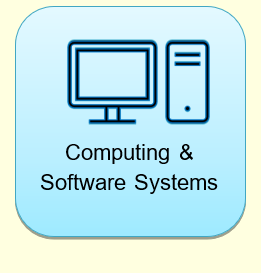
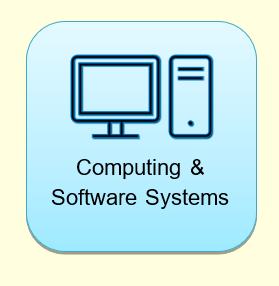
Add files via upload

Changed region(s): [[0.0307, 0.0, 0.9502, 0.9084], [0.2452, 0.1172, 0.8276, 0.4982], [0.1533, 0.5275, 0.8276, 0.7326]]

diff --git a/index.htm b/index.htm
@@ -25,15 +25,15 @@ w\:* {behavior:url(#default#VML);}
   <o:Template>Normal</o:Template>
   <o:LastAuthor>Isabelle Heier</o:LastAuthor>
   <o:Revision>2</o:Revision>
-  <o:TotalTime>604</o:TotalTime>
-  <o:Created>2020-08-15T16:38:00Z</o:Created>
-  <o:LastSaved>2020-08-15T16:38:00Z</o:LastSaved>
+  <o:TotalTime>612</o:TotalTime>
+  <o:Created>2020-08-15T17:00:00Z</o:Created>
+  <o:LastSaved>2020-08-15T17:00:00Z</o:LastSaved>
   <o:Pages>1</o:Pages>
-  <o:Words>165</o:Words>
-  <o:Characters>946</o:Characters>
-  <o:Lines>7</o:Lines>
-  <o:Paragraphs>2</o:Paragraphs>
-  <o:CharactersWithSpaces>1109</o:CharactersWithSpaces>
+  <o:Words>100</o:Words>
+  <o:Characters>570</o:Characters>
+  <o:Lines>4</o:Lines>
+  <o:Paragraphs>1</o:Paragraphs>
+  <o:CharactersWithSpaces>669</o:CharactersWithSpaces>
   <o:Version>16.00</o:Version>
  </o:DocumentProperties>
  <o:CustomDocumentProperties>
@@ -1012,29 +1012,9 @@ lang=EN style='font-size:14.0pt;font-family:"Times New Roman",serif;mso-fareast-
 <p class=MsoNormal align=center style='margin-left:13.5pt;text-align:center;
 line-height:normal'><span lang=EN style='font-size:14.0pt;font-family:"Helvetica Neue Light";
 mso-fareast-font-family:"Helvetica Neue Light";mso-bidi-font-family:"Helvetica Neue Light"'>Here
-are agendas for each <span style='color:red'>STEM </span>Program:</span><span
+are agendas for each STEM<span style='color:red'> </span>Program:</span><span
 lang=EN style='font-size:13.0pt;font-family:"Helvetica Neue";mso-fareast-font-family:
 "Helvetica Neue";mso-bidi-font-family:"Helvetica Neue";mso-no-proof:yes'> <o:p></o:p></span></p>
-
-<p class=MsoNormal align=center style='margin-left:13.5pt;text-align:center;
-line-height:normal'><span lang=EN style='font-size:14.0pt;font-family:"Helvetica Neue Light";
-mso-fareast-font-family:"Helvetica Neue Light";mso-bidi-font-family:"Helvetica Neue Light"'>Biological
-Sciences<o:p></o:p></span></p>
-
-<p class=MsoNormal align=center style='margin-left:13.5pt;text-align:center;
-line-height:normal'><span lang=EN style='font-size:14.0pt;font-family:"Helvetica Neue Light";
-mso-fareast-font-family:"Helvetica Neue Light";mso-bidi-font-family:"Helvetica Neue Light"'>Computing
-&amp; Software Systems<o:p></o:p></span></p>
-
-<p class=MsoNormal align=center style='margin-left:13.5pt;text-align:center;
-line-height:normal'><span lang=EN style='font-size:14.0pt;font-family:"Helvetica Neue Light";
-mso-fareast-font-family:"Helvetica Neue Light";mso-bidi-font-family:"Helvetica Neue Light"'>Electrical
-Engineering<o:p></o:p></span></p>
-
-<p class=MsoNormal align=center style='margin-left:13.5pt;text-align:center;
-line-height:normal'><span lang=EN style='font-size:14.0pt;font-family:"Helvetica Neue Light";
-mso-fareast-font-family:"Helvetica Neue Light";mso-bidi-font-family:"Helvetica Neue Light"'>Physical
-Sciences &amp; REU<o:p></o:p></span></p>
 
 <p class=MsoNormal align=center style='text-align:center'><span lang=EN
 style='font-size:14.0pt;line-height:115%;font-family:"Helvetica Neue";
@@ -1048,86 +1028,60 @@ mso-fareast-font-family:"Helvetica Neue";mso-bidi-font-family:"Helvetica Neue"'>
  <tr style='mso-yfti-irow:0;mso-yfti-firstrow:yes;mso-yfti-lastrow:yes'>
   <td width=232 style='width:174.3pt;padding:0in 5.4pt 0in 5.4pt'>
   <p class=MsoNormal align=center style='text-align:center;line-height:normal'><span
-  lang=EN><a
-  href="https://uwb-stem.github.io/capstone-colloquium-su20/Biological-Sciences/"><span
-  style='font-size:13.0pt;font-family:"Helvetica Neue";mso-fareast-font-family:
-  "Helvetica Neue";mso-bidi-font-family:"Helvetica Neue";color:windowtext;
-  mso-no-proof:yes;text-decoration:none;text-underline:none'><!--[if gte vml 1]><v:shape
-   id="Picture_x0020_25" o:spid="_x0000_i1028" type="#_x0000_t75" alt="A close up of a logo&#10;&#10;Description automatically generated"
-   href="https://uwb-stem.github.io/capstone-colloquium-su20/Biological-Sciences/"
-   style='width:180pt;height:181.5pt;visibility:visible;mso-wrap-style:square'
-   o:button="t">
-   <v:fill o:detectmouseclick="t"/>
-   <v:imagedata src="index_files/image005.png" o:title="A close up of a logo&#10;&#10;Description automatically generated"
-    croptop="2888f" cropbottom="8886f" cropleft="13957f" cropright="3034f"/>
-  </v:shape><![endif]--><![if !vml]><span style='mso-ignore:vglayout'><img
-  border=0 width=240 height=242 src="index_files/image006.gif"
-  alt="A close up of a logo&#10;&#10;Description automatically generated"
-  v:shapes="Picture_x0020_25"></span><![endif]></span></a></span><span lang=EN
-  style='font-size:13.0pt;font-family:"Helvetica Neue";mso-fareast-font-family:
+  lang=EN style='font-size:13.0pt;font-family:"Helvetica Neue";mso-fareast-font-family:
+  "Helvetica Neue";mso-bidi-font-family:"Helvetica Neue";mso-no-proof:yes'><!--[if gte vml 1]><v:shape
+   id="Picture_x0020_5" o:spid="_x0000_i1028" type="#_x0000_t75" style='width:181.5pt;
+   height:180pt;visibility:visible;mso-wrap-style:square'>
+   <v:imagedata src="index_files/image005.png" o:title=""/>
+  </v:shape><![endif]--><![if !vml]><img width=242 height=240
+  src="index_files/image006.gif" v:shapes="Picture_x0020_5"><![endif]></span><span
+  lang=EN style='font-size:13.0pt;font-family:"Helvetica Neue";mso-fareast-font-family:
   "Helvetica Neue";mso-bidi-font-family:"Helvetica Neue"'><o:p></o:p></span></p>
   </td>
   <td width=232 style='width:174.3pt;padding:0in 5.4pt 0in 5.4pt'>
   <p class=MsoNormal align=center style='text-align:center;line-height:normal'><span
-  lang=EN><a href="https://uwb-stem.github.io/capstone-colloquium-su20/csse/"><span
-  style='font-size:13.0pt;font-family:"Helvetica Neue";mso-fareast-font-family:
-  "Helvetica Neue";mso-bidi-font-family:"Helvetica Neue";color:windowtext;
-  mso-no-proof:yes;text-decoration:none;text-underline:none'><!--[if gte vml 1]><v:shape
-   id="Picture_x0020_26" o:spid="_x0000_i1027" type="#_x0000_t75" alt="A close up of a sign&#10;&#10;Description automatically generated"
-   href="https://uwb-stem.github.io/capstone-colloquium-su20/csse/" style='width:180pt;
-   height:181.5pt;visibility:visible;mso-wrap-style:square' o:button="t">
-   <v:fill o:detectmouseclick="t"/>
+  lang=EN style='font-size:13.0pt;font-family:"Helvetica Neue";mso-fareast-font-family:
+  "Helvetica Neue";mso-bidi-font-family:"Helvetica Neue";mso-no-proof:yes'><!--[if gte vml 1]><v:shape
+   id="Picture_x0020_6" o:spid="_x0000_i1027" type="#_x0000_t75" alt="A close up of a sign&#10;&#10;Description automatically generated"
+   style='width:181.5pt;height:180pt;visibility:visible;mso-wrap-style:square'>
    <v:imagedata src="index_files/image007.png" o:title="A close up of a sign&#10;&#10;Description automatically generated"
-    croptop="241f" cropbottom="7113f" cropleft="2511f" cropright="2778f"/>
-   <o:lock v:ext="edit" aspectratio="f"/>
-  </v:shape><![endif]--><![if !vml]><span style='mso-ignore:vglayout'><img
-  border=0 width=240 height=242 src="index_files/image008.gif"
+    croptop="3895f" cropbottom="6645f" cropleft="4932f" cropright="3758f"/>
+  </v:shape><![endif]--><![if !vml]><img width=242 height=240
+  src="index_files/image008.gif"
   alt="A close up of a sign&#10;&#10;Description automatically generated"
-  v:shapes="Picture_x0020_26"></span><![endif]></span></a></span><span lang=EN
-  style='font-size:13.0pt;font-family:"Helvetica Neue";mso-fareast-font-family:
-  "Helvetica Neue";mso-bidi-font-family:"Helvetica Neue"'><o:p></o:p></span></p>
+  v:shapes="Picture_x0020_6"><![endif]></span><span lang=EN style='font-size:
+  13.0pt;font-family:"Helvetica Neue";mso-fareast-font-family:"Helvetica Neue";
+  mso-bidi-font-family:"Helvetica Neue"'><o:p></o:p></span></p>
   </td>
   <td width=230 style='width:2.4in;padding:0in 5.4pt 0in 5.4pt'>
   <p class=MsoNormal align=center style='text-align:center;line-height:normal'><span
-  lang=EN><a
-  href="https://uwb-stem.github.io/capstone-colloquium-su20/electrical-engineering/"><span
-  style='font-size:13.0pt;font-family:"Helvetica Neue";mso-fareast-font-family:
-  "Helvetica Neue";mso-bidi-font-family:"Helvetica Neue";color:windowtext;
-  mso-no-proof:yes;text-decoration:none;text-underline:none'><!--[if gte vml 1]><v:shape
-   id="Picture_x0020_27" o:spid="_x0000_i1026" type="#_x0000_t75" alt="A picture containing clock&#10;&#10;Description automatically generated"
-   href="https://uwb-stem.github.io/capstone-colloquium-su20/electrical-engineering/"
-   style='width:180pt;height:181.5pt;visibility:visible;mso-wrap-style:square'
-   o:button="t">
-   <v:fill o:detectmouseclick="t"/>
-   <v:imagedata src="index_files/image009.png" o:title="A picture containing clock&#10;&#10;Description automatically generated"
-    croptop="933f" cropbottom="8147f" cropleft="1251f" cropright="4237f"/>
-  </v:shape><![endif]--><![if !vml]><span style='mso-ignore:vglayout'><img
-  border=0 width=240 height=242 src="index_files/image010.gif"
-  alt="A picture containing clock&#10;&#10;Description automatically generated"
-  v:shapes="Picture_x0020_27"></span><![endif]></span></a></span><span lang=EN
-  style='font-size:13.0pt;font-family:"Helvetica Neue";mso-fareast-font-family:
-  "Helvetica Neue";mso-bidi-font-family:"Helvetica Neue"'><o:p></o:p></span></p>
+  lang=EN style='font-size:13.0pt;font-family:"Helvetica Neue";mso-fareast-font-family:
+  "Helvetica Neue";mso-bidi-font-family:"Helvetica Neue";mso-no-proof:yes'><!--[if gte vml 1]><v:shape
+   id="Picture_x0020_7" o:spid="_x0000_i1026" type="#_x0000_t75" alt="A close up of a device&#10;&#10;Description automatically generated"
+   style='width:181.5pt;height:180pt;visibility:visible;mso-wrap-style:square'>
+   <v:imagedata src="index_files/image009.png" o:title="A close up of a device&#10;&#10;Description automatically generated"
+    croptop="266f" cropbottom="1331f" cropleft="2752f" cropright="2252f"/>
+  </v:shape><![endif]--><![if !vml]><img width=242 height=240
+  src="index_files/image010.gif"
+  alt="A close up of a device&#10;&#10;Description automatically generated"
+  v:shapes="Picture_x0020_7"><![endif]></span><span lang=EN style='font-size:
+  13.0pt;font-family:"Helvetica Neue";mso-fareast-font-family:"Helvetica Neue";
+  mso-bidi-font-family:"Helvetica Neue"'><o:p></o:p></span></p>
   </td>
   <td width=232 style='width:174.3pt;padding:0in 5.4pt 0in 5.4pt'>
   <p class=MsoNormal align=center style='text-align:center;line-height:normal'><span
-  lang=EN><a
-  href="https://uwb-stem.github.io/capstone-colloquium-su20/Physical-Sciences_REU"><span
-  style='font-size:13.0pt;font-family:"Helvetica Neue";mso-fareast-font-family:
-  "Helvetica Neue";mso-bidi-font-family:"Helvetica Neue";color:windowtext;
-  mso-no-proof:yes;text-decoration:none;text-underline:none'><!--[if gte vml 1]><v:shape
-   id="Picture_x0020_28" o:spid="_x0000_i1025" type="#_x0000_t75" alt="A close up of a logo&#10;&#10;Description automatically generated"
-   href="https://uwb-stem.github.io/capstone-colloquium-su20/Physical-Sciences_REU"
-   style='width:180pt;height:181.5pt;visibility:visible;mso-wrap-style:square'
-   o:button="t">
-   <v:fill o:detectmouseclick="t"/>
-   <v:imagedata src="index_files/image011.png" o:title="A close up of a logo&#10;&#10;Description automatically generated"
-    croptop="3542f" cropbottom="743f" cropright="1581f"/>
-  </v:shape><![endif]--><![if !vml]><span style='mso-ignore:vglayout'><img
-  border=0 width=240 height=242 src="index_files/image012.gif"
-  alt="A close up of a logo&#10;&#10;Description automatically generated"
-  v:shapes="Picture_x0020_28"></span><![endif]></span></a></span><span lang=EN
-  style='font-size:13.0pt;font-family:"Helvetica Neue";mso-fareast-font-family:
-  "Helvetica Neue";mso-bidi-font-family:"Helvetica Neue"'><o:p></o:p></span></p>
+  lang=EN style='font-size:13.0pt;font-family:"Helvetica Neue";mso-fareast-font-family:
+  "Helvetica Neue";mso-bidi-font-family:"Helvetica Neue";mso-no-proof:yes'><!--[if gte vml 1]><v:shape
+   id="Picture_x0020_8" o:spid="_x0000_i1025" type="#_x0000_t75" alt="A picture containing food&#10;&#10;Description automatically generated"
+   style='width:181.5pt;height:180pt;visibility:visible;mso-wrap-style:square'>
+   <v:imagedata src="index_files/image011.png" o:title="A picture containing food&#10;&#10;Description automatically generated"
+    croptop="7236f" cropbottom="2265f" cropleft="7938f" cropright="2707f"/>
+  </v:shape><![endif]--><![if !vml]><img width=242 height=240
+  src="index_files/image012.gif"
+  alt="A picture containing food&#10;&#10;Description automatically generated"
+  v:shapes="Picture_x0020_8"><![endif]></span><span lang=EN style='font-size:
+  13.0pt;font-family:"Helvetica Neue";mso-fareast-font-family:"Helvetica Neue";
+  mso-bidi-font-family:"Helvetica Neue"'><o:p></o:p></span></p>
   </td>
  </tr>
 </table>
@@ -1164,7 +1118,7 @@ mso-bidi-font-family:"Helvetica Neue"'><o:p>&nbsp;</o:p></span></p>
 
 <p class=MsoNormal><span lang=EN style='font-size:9.0pt;line-height:115%;
 font-family:"Helvetica Neue";mso-fareast-font-family:"Helvetica Neue";
-mso-bidi-font-family:"Helvetica Neue"'>Updated: 8/12/2020 12:12<o:p></o:p></span></p>
+mso-bidi-font-family:"Helvetica Neue"'>Updated: 8/15/2020 10:00<o:p></o:p></span></p>
 
 </div>
 
